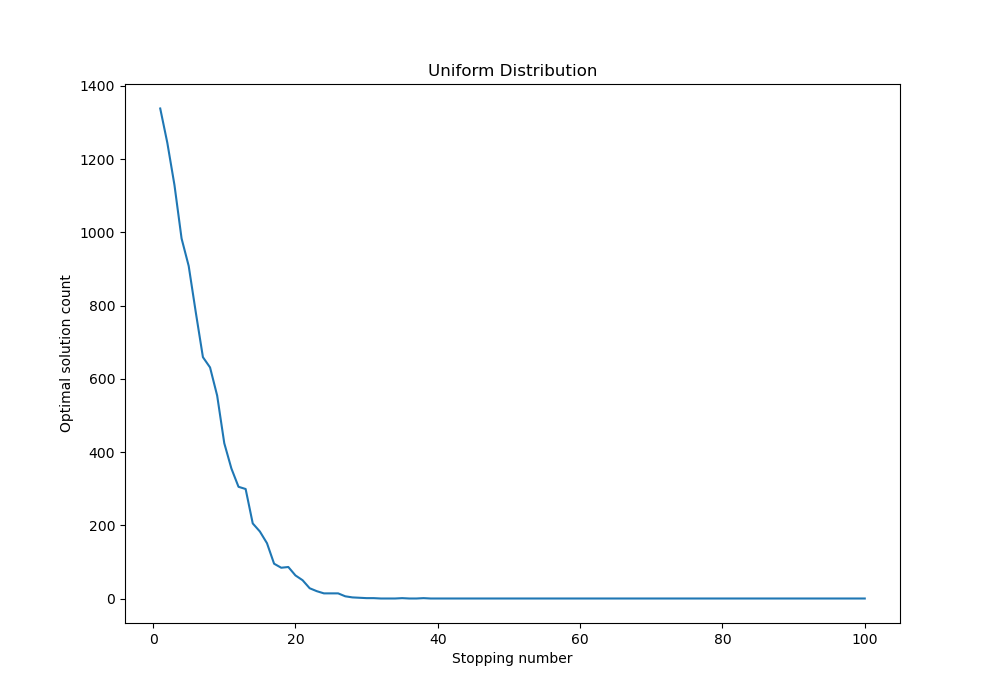
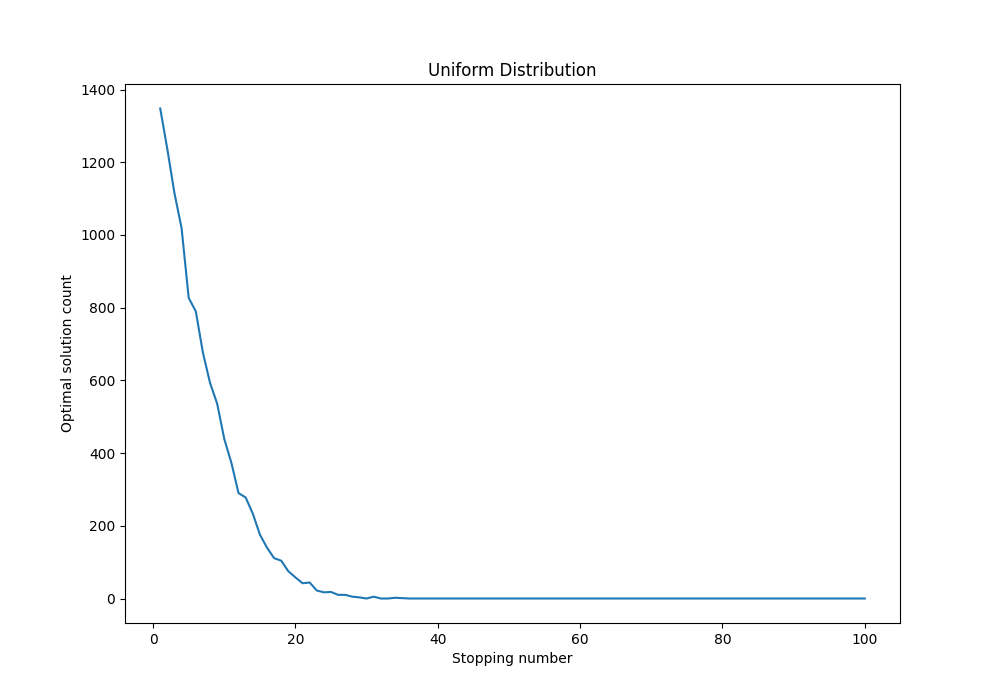
Reworked solution to fit assignment

diff --git a/Assn1/HW1_Grogan_Cody.py b/Assn1/HW1_Grogan_Cody.py
@@ -20,7 +20,13 @@ class OptimalStopper:
         self.mean, self.stdDev = normalStats
         self.min = numRange[0]
         self.max = numRange[1]
-        self.stopper = self.vanillaStop if stopper == "vanilla" else self.maxBenefitStop
+        if stopper == "vanilla":
+            self.stopper = self.vanillaStop
+        elif stopper == "fallthrough":
+            self.stopper = self.fallThroughStop
+        else:
+            self.stopper = self.maxBenefitStop
+
 
     def getRandomList(self) -> list[list[int]]:
         scenarios = []
@@ -86,6 +92,33 @@ class OptimalStopper:
                         Stops[stopNumber] += 1
                         break
                     # Fall through condition
+                    #elif np.random.random() < (j - stopNumber)/(len(scenario) - stopNumber - 1):
+                        #expectation -= 1
+
+                # If the optimal number was chosen add increment successful stop count
+                if scenario[j] == optimalNumber:
+                    successfulStops[stopNumber] += 1
+
+            return (Stops, successfulStops)
+
+    def fallThroughStop(self, scenario: list[int]) -> typing.Tuple[list[int], list[int]]:
+         # Set initial stop number, scenario list, and optimal number
+            optimalNumber = max(scenario)
+            successfulStops = [0 for i in range(self.numberElements)]
+            Stops = [0 for i in range(self.numberElements)]
+            
+
+            # Loop through all stop numbers (stop at len - 1 because it has to stop at some point)
+            for stopNumber in range(len(scenario) - 1):
+                # Get expected lowest number for stopNumber first elements
+                expectation = max(scenario[:stopNumber+1])
+
+                # Loop through the remaining data and stop on first number lower than expectation
+                for j in range(stopNumber, len(scenario)):
+                    if scenario[j] > expectation:
+                        Stops[stopNumber] += 1
+                        break
+                    # Fall through condition
                     elif np.random.random() < (j - stopNumber)/(len(scenario) - stopNumber - 1):
                         expectation -= 1
 
@@ -94,7 +127,7 @@ class OptimalStopper:
                     successfulStops[stopNumber] += 1
 
             return (Stops, successfulStops)
-
+        
     def maxBenefitStop(self, scenario: list[int]) -> typing.Tuple[list[int], list[int]]:
         # Set initial stop number, scenario list, and optimal number
             successfulStops = [0 for i in range(self.numberElements)]
@@ -142,74 +175,99 @@ def getScenario2() -> list[int]:
     scenario2.close()
     return [scenarioList2]
 
-def controlGraph():
+def controlGraphs():
     elements = 1000
     iterations = 10000
 
-    solver = OptimalStopper(np.random.uniform, listCount=iterations) 
+    solver = OptimalStopper(np.random.uniform, stopper="vanilla", listCount=iterations) 
 
+    print("Control Graphs:")
     shuffledStops, shuffledOptimalStops = solver.getOptimalStopping(solver.getShuffledList)
-    print(f"Shuffled: {np.argmax(shuffledOptimalStops) / elements:.2f}")
+    print(f"\tShuffled: {np.argmax(shuffledOptimalStops) / elements:.2f}")
     fig, ax = plt.subplots(figsize=(10,7))
     ax.plot(range(elements), shuffledOptimalStops)
     ax.set_title("Shuffled List Control")
     ax.set_xlabel("Stopping number")
     ax.set_ylabel("Optimal solution count")
     fig.savefig("Figures/ShuffledControl.png")
+
+    uniformStops, uniformOptimalStops = solver.getOptimalStopping(solver.getRandomList)
+    print(f"\tUniform: {np.argmax(uniformOptimalStops) / elements:.2f}")
+    fig, ax = plt.subplots(figsize=(10,7))
+    ax.plot(range(elements), uniformOptimalStops)
+    ax.set_title("Uniform List Control")
+    ax.set_xlabel("Stopping number")
+    ax.set_ylabel("Optimal solution count")
+    fig.savefig("Figures/UniformControl.png")
    
 
 def problem1():
     elements = 1000
     iterations = 10000
 
-    solver = OptimalStopper(np.random.uniform, listCount=iterations) 
+    solver = OptimalStopper(np.random.uniform, stopper="fallthrough", listCount=iterations) 
     print("Problem 1 Optimal Stopping percentages:")
 
     # Uniform Distribution
     uniformStops, uniformOptimalStops = solver.getOptimalStopping(solver.getRandomList)
     
-    print(f"Uniform: {np.argmax(uniformOptimalStops) / elements:.2f}")
+    print(f"\tUniform Fall Through: {np.argmax(uniformOptimalStops) / elements:.2f}")
     fig, ax = plt.subplots(figsize=(10,7))
     ax.plot(range(elements), uniformOptimalStops)
-    ax.set_title("Uniform Distribution")
+    ax.set_title("Uniform Fall Through")
     ax.set_xlabel("Stopping number")
     ax.set_ylabel("Optimal solution count")
-    fig.savefig("Figures/Uniform.png")
+    fig.savefig("Figures/UniformFallThrough.png")
     
     # Shuffled Distribution
     shuffledStops, shuffledOptimalStops = solver.getOptimalStopping(solver.getShuffledList)
-    print(f"Shuffled: {np.argmax(shuffledOptimalStops) / elements:.2f}")
+    print(f"\tShuffled Fall Through: {np.argmax(shuffledOptimalStops) / elements:.2f}")
     fig, ax = plt.subplots(figsize=(10,7))
     ax.plot(range(elements), shuffledOptimalStops)
-    ax.set_title("Shuffled List")
+    ax.set_title("Shuffled List Fall Through")
     ax.set_xlabel("Stopping number")
     ax.set_ylabel("Optimal solution count")
-    fig.savefig("Figures/Shuffled.png")
+    fig.savefig("Figures/ShuffledFallThrough.png")
 
-    # Dataset 1
+    # Dataset 1 Vanilla
+    solver.stopper = solver.vanillaStop
     data1Stops, data1OptimalStops= solver.getOptimalStopping(getScenario1)
-    print(f"DataSet: {np.argmax(data1OptimalStops) / elements:.2f}")
+    print(f"\tDataSet 1 Vanilla: {np.argmax(data1OptimalStops) / elements:.2f}")
     fig, ax = plt.subplots(figsize=(10,7))
     ax.plot(range(elements), data1OptimalStops)
-    ax.set_title("Data Set 1")
+    ax.set_title("Data Set 1 Vanilla")
     ax.set_xlabel("Stopping number")
     ax.set_ylabel("Optimal solution count")
-    fig.savefig("Figures/DataSet1.png")
+    fig.savefig("Figures/DataSet1Vanilla.png")
 
-    # Dataset 2
+    # Dataset 1 Fall through
+    solver.stopper = solver.fallThroughStop
+    data1Stops, data1OptimalStops= solver.getOptimalStopping(getScenario1)
+    print(f"\tDataSet 1 Fall Through: {np.argmax(data1OptimalStops) / elements:.2f}")
+    fig, ax = plt.subplots(figsize=(10,7))
+    ax.plot(range(elements), data1OptimalStops)
+    ax.set_title("Data Set 1 Fall through")
+    ax.set_xlabel("Stopping number")
+    ax.set_ylabel("Optimal solution count")
+    fig.savefig("Figures/DataSet1FallThrough.png")
+
+    # Dataset 2 Vanilla
+    solver.stopper = solver.vanillaStop
     data2Stops, data2OptimalStops= solver.getOptimalStopping(getScenario2)
-    print(f"DataSet: {np.argmax(data2OptimalStops) / elements:.2f}")
+    print(f"\tDataSet 2 Vanilla: {np.argmax(data2OptimalStops) / elements:.2f}")
     fig, ax = plt.subplots(figsize=(10,7))
     ax.plot(range(elements), data2OptimalStops)
-    ax.set_title("Data Set 2")
+    ax.set_title("Data Set 2 Vanilla")
     ax.set_xlabel("Stopping number")
     ax.set_ylabel("Optimal solution count")
-    fig.savefig("Figures/DataSet2.png")
+    fig.savefig("Figures/DataSet2Vanilla.png")
     
-     # Dataset 2 Total Stops
+    # Dataset 2 Total Stops
+    solver.stopper = solver.fallThroughStop
+    data2Stops, _ = solver.getOptimalStopping(getScenario2)
     fig, ax = plt.subplots(figsize=(10,7))
     ax.plot(range(elements), data2Stops)
-    ax.set_title("Data Set 2 Total Stops")
+    ax.set_title("Data Set 2 Fall Through Total Stops")
     ax.set_xlabel("Stopping number")
     ax.set_ylabel("Optimal solution count")
     fig.savefig("Figures/DataSet2TotalStops.png")
@@ -225,7 +283,7 @@ def problem2():
 
     uniformStops, uniformOptimalStops = solver.getOptimalStopping(solver.getRandomList)
 
-    print(f"Uniform: {(np.argmax(uniformOptimalStops)+1) / elements:.2f}")
+    print(f"\tUniform: {(np.argmax(uniformOptimalStops)+1) / elements:.2f}")
     fig, ax = plt.subplots(figsize=(10,7))
     ax.plot(range(1,elements+1), uniformOptimalStops)
     ax.set_title("Uniform Distribution")
@@ -235,7 +293,7 @@ def problem2():
 
     normalStops, normalOptimalStops = solver.getOptimalStopping(solver.getNormalList)
 
-    print(f"Normal: {(np.argmax(normalOptimalStops)+1) / elements:.2f}")
+    print(f"\tNormal: {(np.argmax(normalOptimalStops)+1) / elements:.2f}")
     fig, ax = plt.subplots(figsize=(10,7))
     ax.plot(range(1,elements+1), normalOptimalStops)
     ax.set_title("Normal Distribution")
@@ -246,12 +304,10 @@ def problem2():
 
 if __name__ == "__main__":
 
-    # Must comment out fall through condition to get this graph.
-    #controlGraph()
+    controlGraphs()
 
     problem1()
 
-    
     problem2()
     
     plt.show()

diff --git a/Assn1/README.md b/Assn1/README.md
@@ -5,9 +5,12 @@
 
 		Running the code produces 7 graphs:
 		- Problem 1
-			- Uniform Distribution from 0-99
-			- Shuffled list (list containing 0-9999 in the regular problem)
+			- Shuffled Control
+			- Uniform Control (0-99)
+			- Uniform Fall Through (0-99)
+			- Shuffled Fall Through (list containing 0-9999 in the regular problem)
 			- Scenario 1
+			- Scenario 1 Fall Through
 			- Scenario 2
 			- Scenario 2 All Stops
 		- Problem 2
@@ -17,63 +20,122 @@
 
 # Problem 1
 
-For the first problem I used what is essentially the vanilla stopping algorithm with a slight addition. This addition essentially randomly lowers the expectation of the stopper as it gets closer to the end of the list. I accomplish this by generating a random number and only decrementing the expectation if it is larger than the percentage of the list left to select from. This allows the algorithm to pick the correct solution if the optimal solution occurs early in the list for uniform distributions. However this has an adverse effect on randomly shuffled lists as this document will show.
+For the first problem I used what is essentially the vanilla stopping algorithm with a slight addition.
+This addition essentially randomly lowers the expectation of the stopper as it gets closer to the end of the list.
+I accomplish this by generating a random number and only decrementing the expectation if it is larger than the percentage of the list left to select from.
+This allows the algorithm to pick the correct solution if the optimal solution occurs early in the list for uniform distributions. 
+However this has an adverse effect on randomly shuffled lists as this document will show.
 
 ## Results
 
-This section shows the results from problem one. The results include a optimal stopping number and a graph showing the number of optimal stops at each index.
+This section shows the results from problem one. 
+The results include a optimal stopping number and a graph showing the number of optimal stops at each index.
 
-### Uniform
+### Shuffled Control
 
-<img src="Figures/Uniform.png" width="500"/>
+<img src="Figures/ShuffledControl.png" width="500"/>
 
-Stop %: 13
+Stop %: 37%
 
-Stop % Probability: 43%
+Stop % Probability: 37%
 
-The output from the code shows the optimal stopping point of the uniform distribution with the vanilla stopping algorithm of 13%. This makes sense because if the list is populated 0 to n numbers then all of the numbers are likely to occur in the first 100 elements in the list. This means the optimal solution is likely to be in the n first elements quite early in the list and thus the stopper should stop early to avoid the optimal number being the expectation.
+The graph was generated using the vanilla stopping algorithm with no fall through condition. 
+As predicted, this graph confirms the book theory that for the best stopping percentage is 37% with a probability of selecting the optimal answer of 37%.
 
-### Shuffled List
+### Uniform Control
 
-<img src="Figures/Shuffled.png" width="500"/>
+<img src="Figures/UniformControl.png" width="500"/>
 
-Stop %: 43%
+Stop %: 4%
+
+Stop % Probability: 37%
+
+The graph above was generated using the vanilla stopping algorithm with no fall through condition.
+As expected, the optimal answer is found early in the list making the algorithm fail at higher percentages in the list.
+This is because for a list of m elements populated with a n numbers, the optimal answer is likely to occur in the first n elements of the list.
+For the list used in this graph, there are 100 numbers so the best place to stop is early in the list.
+
+### Shuffled w/ Fall Through
+
+<img src="Figures/ShuffledFallThrough.png" width="500"/>
+
+Stop %: 25%
 
 Stop % Probability: 12%
 
-This graph shows the problem as outlined in the slides with a number only occuring once in the list. The code ouputs a optimal stop of 43% of the length of the list. This is sufficiently close to the 36.8 % number given by the book. The reason why it is not the exact number is due to the fall through condition for the uniform numbers. In the shuffled list, no number is the same, so the likelyhood of a number being greater than the expectation is fairly high as their are more options. The fallthrough condition reduces the effectiveness of the shuffled list because there is a substantially higher chance that reducing the expectation will cause it to pick a non-optimal solution. However, without the fall through condition, the algorithm produces the expected 37% and 37% as shown in the graph below.
+This graph shows the problem as outlined in the slides with a number only occuring once in the list. 
+The code ouputs a optimal stop of 25% of the length of the list.
+The reason why it is not close to 37% is due to the fall through condition for the uniform numbers. In the shuffled list, no number is the same,
+so the likelyhood of a number being greater than the expectation is fairly high as their are more options.
+The fallthrough condition reduces the effectiveness of the shuffled list because there is a substantially higher chance that reducing the expectation
+will cause it to pick a non-optimal solution.
 
-<img src="Figures/ShuffledControl.png" width="500" />
+### Uniform w/ Fall Through
 
-### Scenario 1
+<img src="Figures/UniformFallThrough.png" width="500" />
 
-<img src="Figures/DataSet1.png" width="500"/>
+Stop %: 13%
+
+Stop % Probability: 43%
+
+The graph above was generated using the fall through condition which reduces the expectation as the number of remaining entries decreases.
+As seen above, the fall through condition greatly increases the probability of selecting the optimal number at the specified stopping point.
+The stopping % of 13% is likely because it is much more effective to form an expectation using n elements of the list (n is number of numbers) and reduce your
+expectation by 1 than try to stop before finding the optimal number. This is proven by the algorithm because the likelyhood of finding the optimal number is nearly 6% 
+higher than the vanilla.
+
+### Scenario 1 Vanilla
+
+<img src="Figures/DataSet1Vanilla.png" width="500"/>
 
 Stop %: N/A (cant pick the best without more runs)
 
 Stop % Probability: N/A
 
-This graph shows the same result of Uniform graph but has significantly less resolution because the algorithm was run on a single list. As mentioned before, the likelyhood of the optimal solution occuring is much higher in a uniform distribution making the best stopping point early in the list.
+This graph shows the same result of Uniform graph without the fall through condition. 
+As can be seen, the optimal number is found early in the list and the algorithm fails to find any optimal solutions after it.
+More over, the vanilla 37% rule would fail in this case because the expectation would contain the optimal solution.
+
+### Scenario 1 Fall Through
+
+<img src="Figures/DataSet1FallThrough.png" width="500"/>
+
+Stop %: N/A (cant pick the best without more runs)
+
+Stop % Probability: N/A
+
+The above graph shows similar results to that of the uniform lists with the fall through condition. 
+As can be seen, the indices where the algorithm finds the optimal answer is fairly dense at the beginning of the list around the 10-20% number.
+This echos the finding of the uniform list with fall through findings because the algorithm found the optimal solution nearly every time after 
+its expectation contained the optimal number. Showing that the fall through condition works much better for uniform draw lists.
+
 
 ### Scenario 2
 
-<img src="Figures/DataSet2.png" width="500" />
+<img src="Figures/DataSet2Vanilla.png" width="500" />
 
 Stop %: N/A
 
 Stop % Probability: N/A
 
-This graph shows the downfall of using the vanilla stopping algorithm on a single list. The algorithm fails because the algorithm forms and expectation before it starts selecting stopping points. Meaning that if the optimal solution occurs early in the list the rule of stopping at 36.8 % will fail to choose the optimal solution.
+This graph shows the downfall of using the vanilla stopping algorithm on a list with a single optimal value.
+The vanilla algorithm doesn't have a mechanism for reducing its standards if there were only to be a single best candidate.
+And as a result, the algorithm would choose the last element in the list.
 
 
 <img src="Figures/DataSet2TotalStops.png" width="500"/>
 
-However, when looking at the total stops graph, the fall through condition of reducing the expectation allows the algorithm to pick answers eventhough they may not be optimal. The fallthrough condition then prevents the algorithm from completely failing in the case that the optimal solution is found early in the list.
+Looking at the total stops graph for the algorithm with the fall through condition, it can be seen that reducing the expectation causes the algorithm to stop much sooner on a
+second or third best candidate. This not only saves time, but ensures that you pick the best candidate in the remainder of the list.
 
 
 # Problem 2
 
-For this problem I made a seperate stopping function that picks the value with the maximum benefit. The problem to be solved is how much exploration should be done before picking a candidate if rating candidates has a cost. For the optimal value, the algorithm selects the largest number in the list after subtracting its index. For the expectation, the best candidate is the highest number before stopping minus the stopping number. Then, stopping is the same as the vanilla stopping algorithm but finding a number - index that is higher than the expectation.
+For this problem I made a seperate stopping function that picks the value with the maximum benefit.
+The problem to be solved is how much exploration should be done before picking a candidate if rating candidates has a cost.
+For the optimal value, the algorithm selects the largest number in the list after subtracting its index.
+For the expectation, the best candidate is the highest number before stopping minus the stopping number.
+Then, stopping is the same as the vanilla stopping algorithm but finding a number - index that is higher than the expectation.
 
 ## Results
 
@@ -83,15 +145,21 @@ Stop %: 1%
 
 Stop % Probability: 14%
 
-This graph shows the results of the algorithm on a uniform draw of 100(having more than 100 would cause negative reward) numbers from 1-99. As expected by the constraints of the problem, the optimal stopping percentage is 1%  and the odds of picking the optimal number is 14% as forming an expectation is costly. However, this is likely because the cost of passing up a number is 1% of the total reward. This then explains the optimal stopping percentage because forming a better expectation reduces the potential reward in the future.
+This graph shows the results of the algorithm on a uniform draw of 100(having more than 100 would cause negative reward) numbers from 1-99.
+As expected by the constraints of the problem, the optimal stopping percentage is 1%  and the odds of picking the optimal number is 14% as forming
+an expectation is costly. However, this is likely because the cost of passing up a number is 1% of the total reward. This then explains the optimal
+stopping percentage because forming a better expectation reduces the potential reward in the future.
 
 <img src="Figures/Normal.png" width="500" />
 
 Stop %: 1%
 
-Stop % Probability: 13.5%
+Stop % Probability: 10%
 
-The graph above shows the max benefit algorithm running on a set of 100 numbers generated by a normal distribution with a mean of 50 and std Dev of 10. I found the optimal stopping percentage is 1% with a probability of 10%. The percent success rate is likely lower because the likelyhood of a high number like 99 is very unlikely. As a result of this, there is a higher probability of a high number occuring later in the list that is still the best. This is reflected in the graph because the number of succesful stops drops off slightly slower than the uniform graph.
+The graph above shows the max benefit algorithm running on a set of 100 numbers generated by a normal distribution with a mean of 50 and std Dev of 10.
+I found the optimal stopping percentage is 1% with a probability of 10%. The percent success rate is likely lower because the likelyhood of a high number
+like 99 is very unlikely. As a result of this, there is a higher probability of a high number occuring later in the list that is still the best. This is
+reflected in the graph because the number of succesful stops drops off slightly slower than the uniform graph.
 
 
 
